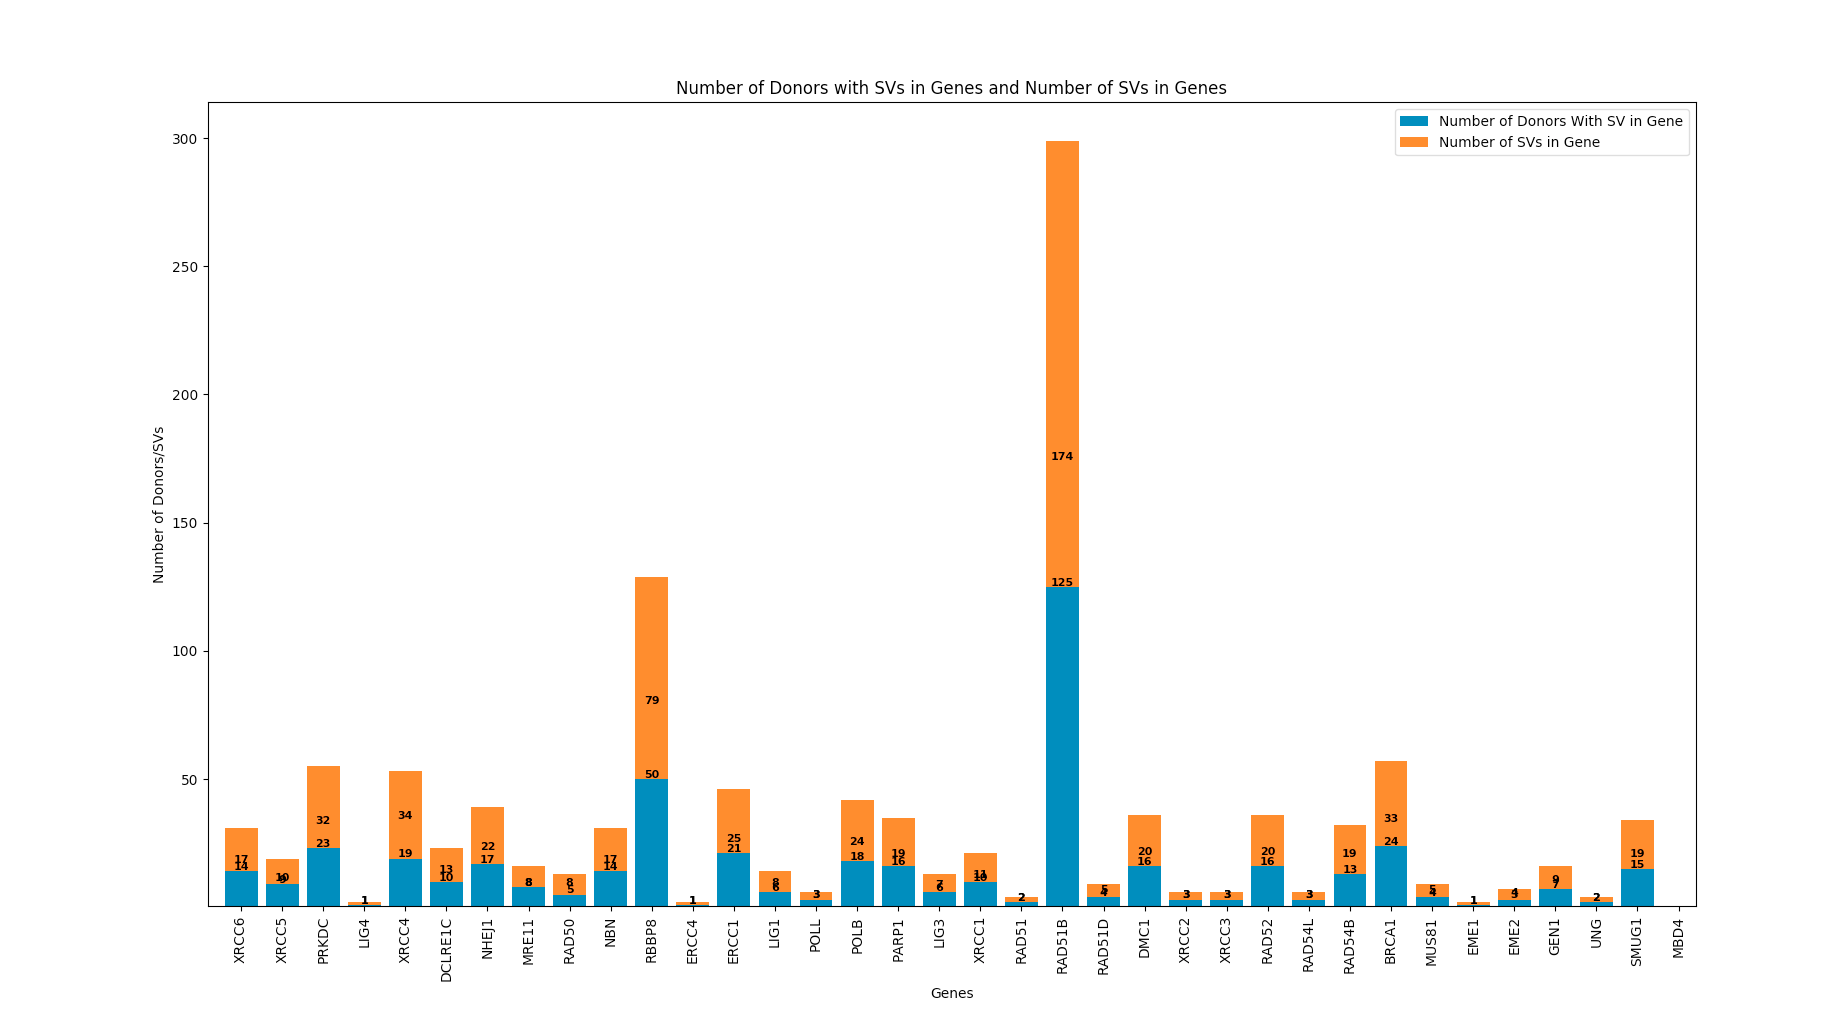
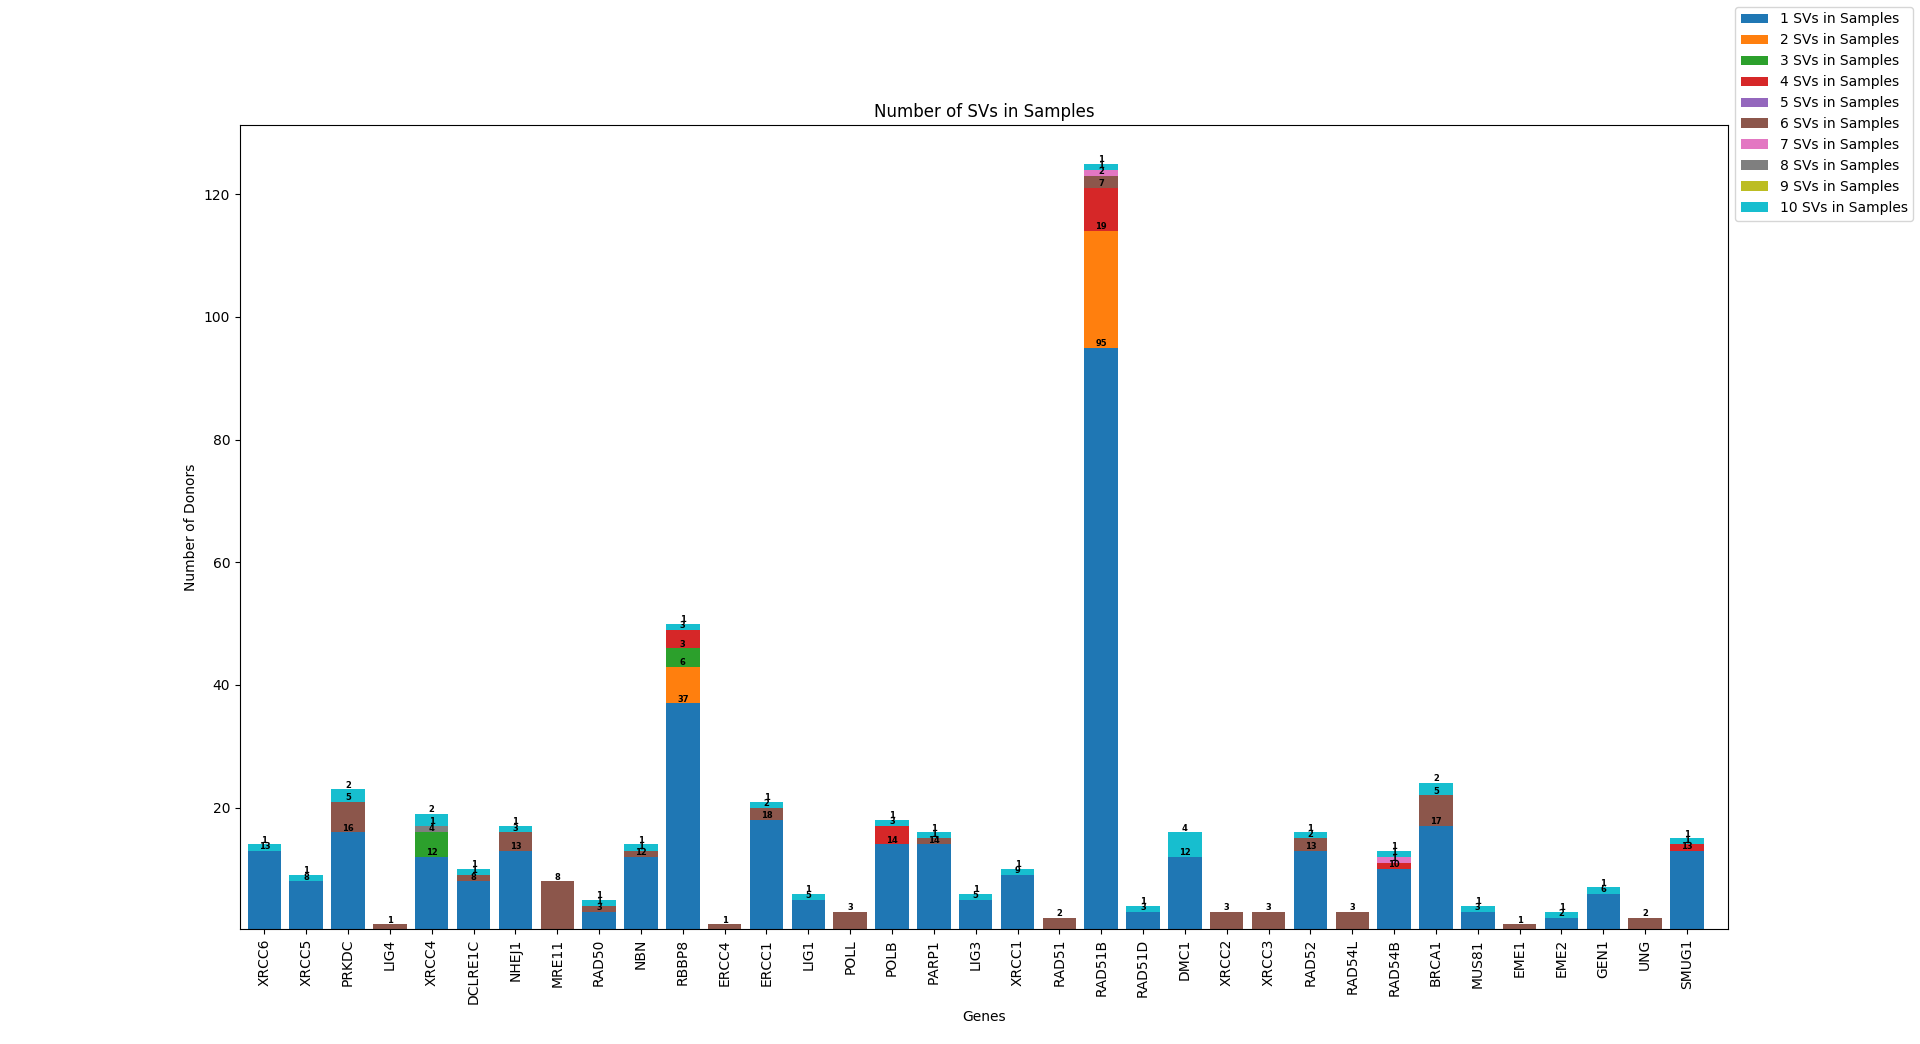
stackedbarplot done and barplot with points done

diff --git a/SVPlots/stacked.py b/SVPlots/stacked.py
@@ -11,21 +11,28 @@ import dataParser as parser
 import helperFiles.buildPlot as plotBuilder
 
 
-def autolabel(rects):
+def autolabel(rects, bottom):
     """Attach a text label above each bar in *rects*, displaying its height."""
-    for rect in rects:
+    for i in range(0, len(rects)):
+        rect = rects[i]
         height = rect.get_height()
+        if height == 0:
+            continue
+        if len(bottom) == 0:
+            val = 0
+        else:
+            val = bottom[i]
         ax.annotate('{}'.format(height),
-                    xy=(rect.get_x() + rect.get_width() / 2, height),
+                    xy=(rect.get_x() + rect.get_width() / 2, height + val),
                     xytext=(0, 3),  # 3 points vertical offset
                     textcoords="offset points",
-                    ha='center', va='center', color="black", fontsize=6, fontweight="bold")
+                    ha='center', va='center', color="black", fontsize=6, fontweight="bold", zorder=10,)
 
 
 samples = parser.samples
 s = set()
 labels = []
-numDonors = []
+data = []
 counter = 0
 for i in samples:
     for gene in samples[i]:
@@ -38,36 +45,46 @@ for i in samples:
         else:
             s.add(gene)
             labels.append(gene)
-            numDonors.append(toAdd)
+            data.append(np.histogram(toAdd)[0])
 
-numSVs = []
-counter = 0
-s = set()
-for i in samples:
-    for gene in samples[i]:
-        print(gene)
-        if(gene in s):
-            continue
-        toAdd = parser.getNumOfSVs(gene)
-        if(toAdd == None):
-            continue
-        else:
-            s.add(gene)
-            numSVs.append(toAdd)
 
-fig, ax = plt.subplots(figsize=(15, 10))
-ax.set_title('Number of Donors with SVs in Genes and Number of SVs in Genes')
+maxlen = 0
+for arr in data:
+    if len(arr) > maxlen:
+        maxlen = len(arr)
+
+data = np.array(data)
+
+fig, ax = plt.subplots(figsize=(20, 15))
 x = np.arange(len(labels))
-rects = ax.bar(x, numDonors)
-rects1 = ax.bar(x, numSVs, bottom=numDonors)
-ax.set_ylabel('Number of Donors/SVs')
+bottom = []
+forlegend = []
+labelsForLegend = []
+for i in range(0, maxlen):
+    forPlot = []
+    for j in data:
+        try:
+            forPlot.append(j[i])
+        except:
+            forPlot.append(0)
+    if len(bottom) == 0:
+        rects = ax.bar(x, forPlot, label=f"{i+1} SVs in Samples")
+        autolabel(rects, bottom)
+        bottom = np.array(forPlot)
+    else:
+        rects = ax.bar(
+            x, forPlot, label=f"{i+1} SVs in Samples", bottom=bottom)
+        autolabel(rects, bottom)
+        bottom += np.array(forPlot)
+    forlegend.append(rects[0])
+    labelsForLegend.append(f"{i+1} SVs in Samples")
+
+ax.set_title('Number of Donors with SVs in Samples')
+ax.set_ylabel('Number of Donors')
 ax.set_xlabel('Genes')
-ax.set_title('Number of Donors with SVs in Genes and Number of SVs in Genes')
+ax.set_title('Number of SVs in Samples')
 ax.set_xticks(x)
 plt.xticks(rotation=90)
 ax.set_xticklabels(labels)
-plt.legend((rects[0], rects1[0]),
-           ('Number of Donors With SV in Gene', 'Number of SVs in Gene'))
-# autolabel(rects)
-# autolabel(rects1)
+fig.legend(forlegend, labelsForLegend)
 plt.show()

diff --git a/SVPlots/signif.py b/SVPlots/signif.py
@@ -41,48 +41,48 @@ data = []
 labels = []
 
 
-samples = parser.samples
-s = set()
-inputs = []
-counter = 0
-for i in samples:
-    for gene in samples[i]:
-        if(gene in s):
-            continue
-        print(gene)
-        if(not parser.checkValid(gene)):
-            continue
-        else:
-            s.add(gene)
-            inputs.append(gene)
-            labels.append(gene)
-pValues = []
-for gene in inputs:
-    print(gene)
-    all_donors = df['donor_unique_id'].unique()
-    donorsInGene = parser.getDonors(gene)
-    diffDonors = parser.diff(all_donors, donorsInGene)
+# samples = parser.samples
+# s = set()
+# inputs = []
+# counter = 0
+# for i in samples:
+#     for gene in samples[i]:
+#         if(gene in s):
+#             continue
+#         print(gene)
+#         if(not parser.checkValid(gene)):
+#             continue
+#         else:
+#             s.add(gene)
+#             inputs.append(gene)
+#             labels.append(gene)
+# pValues = []
+# for gene in inputs:
+#     print(gene)
+#     all_donors = df['donor_unique_id'].unique()
+#     donorsInGene = parser.getDonors(gene)
+#     diffDonors = parser.diff(all_donors, donorsInGene)
 
-    affected = []
-    notaffected = []
+#     affected = []
+#     notaffected = []
 
-    for donor in donorsInGene:
-        donorDF = df[(df['donor_unique_id'] == donor)]
-        affected.append(len(donorDF.index))
+#     for donor in donorsInGene:
+#         donorDF = df[(df['donor_unique_id'] == donor)]
+#         affected.append(len(donorDF.index))
 
-    for donor in diffDonors:
-        donorDF = df[(df['donor_unique_id'] == donor)]
-        notaffected.append(len(donorDF.index))
-    if(len(affected) == 0):
-        affected.append(0)
-    if(len(notaffected) == 0):
-        notaffected.append(0)
-    data.append(notaffected)
-    data.append(affected)
-    labels.append(gene)
-    value = stats.ttest_ind(affected, notaffected)[1]
-    pValues.append(value)
-    print(value)
+#     for donor in diffDonors:
+#         donorDF = df[(df['donor_unique_id'] == donor)]
+#         notaffected.append(len(donorDF.index))
+#     if(len(affected) == 0):
+#         affected.append(0)
+#     if(len(notaffected) == 0):
+#         notaffected.append(0)
+#     data.append(notaffected)
+#     data.append(affected)
+#     labels.append(gene)
+#     value = stats.ttest_ind(affected, notaffected)[1]
+#     pValues.append(value)
+#     print(value)
 
 pValues = parser.load_obj('pvalues')
 data = parser.load_obj('data')
